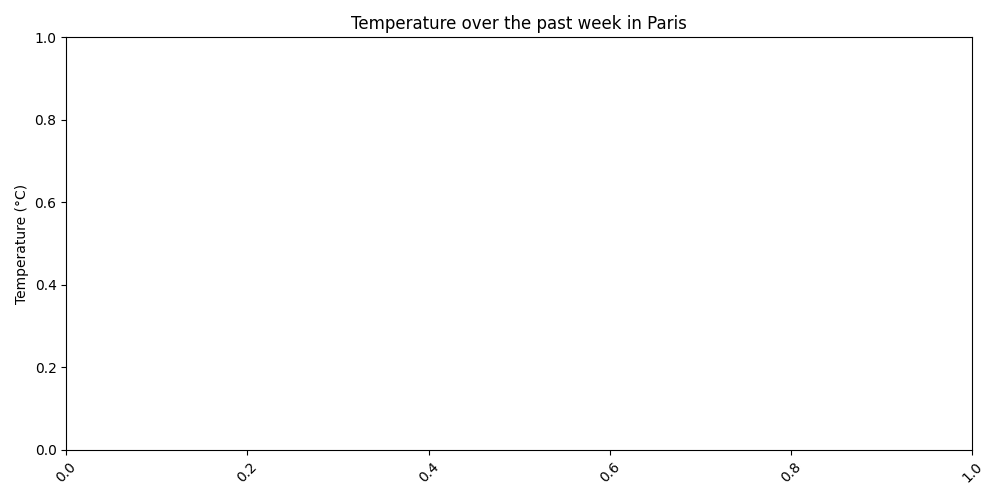
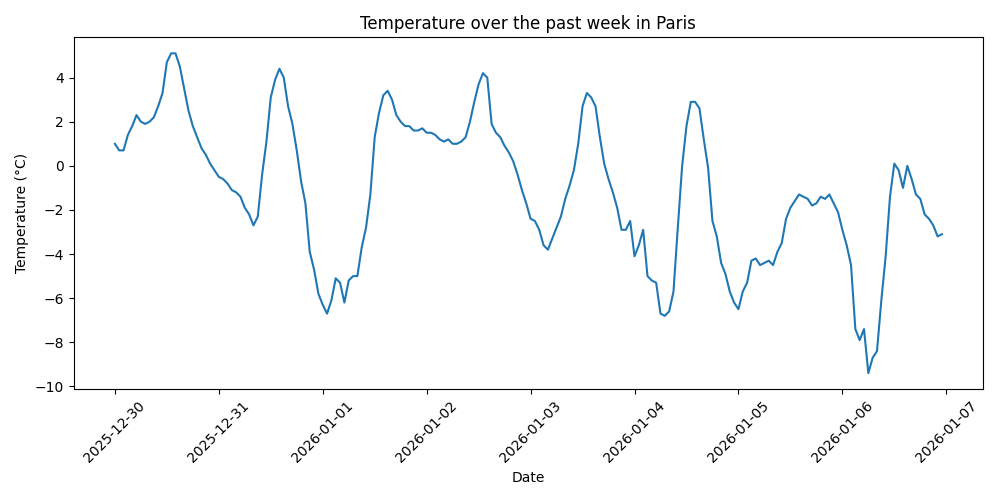
feat: enhance temperature data visualization with improved plotting and labeling

diff --git a/get_data.py b/get_data.py
@@ -45,9 +45,13 @@ plt.show()
 df["date "]=pd.to_datetime(df["date"])
 print(df)
 
+
+
 plt.figure(figsize=(10, 5))
 plt.ylabel("Temperature (°C)")
 plt.title("Temperature over the past week in Paris")
+plt.plot(df["date"], df["temperature_C"], label="Temperature (°C)")
+plt.xlabel("Date")
 plt.legend
 
 plt.xticks(rotation=45)
